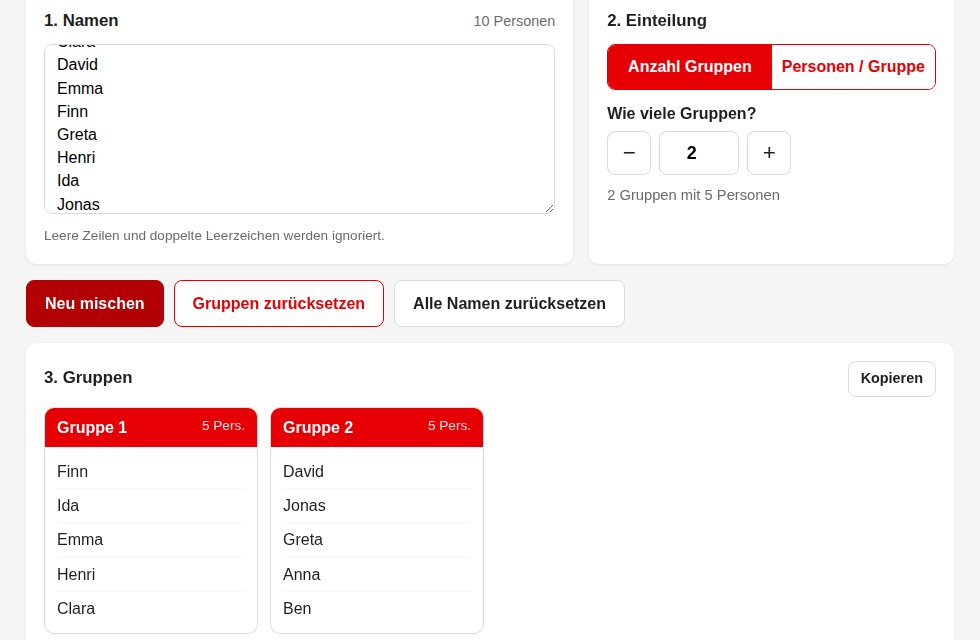
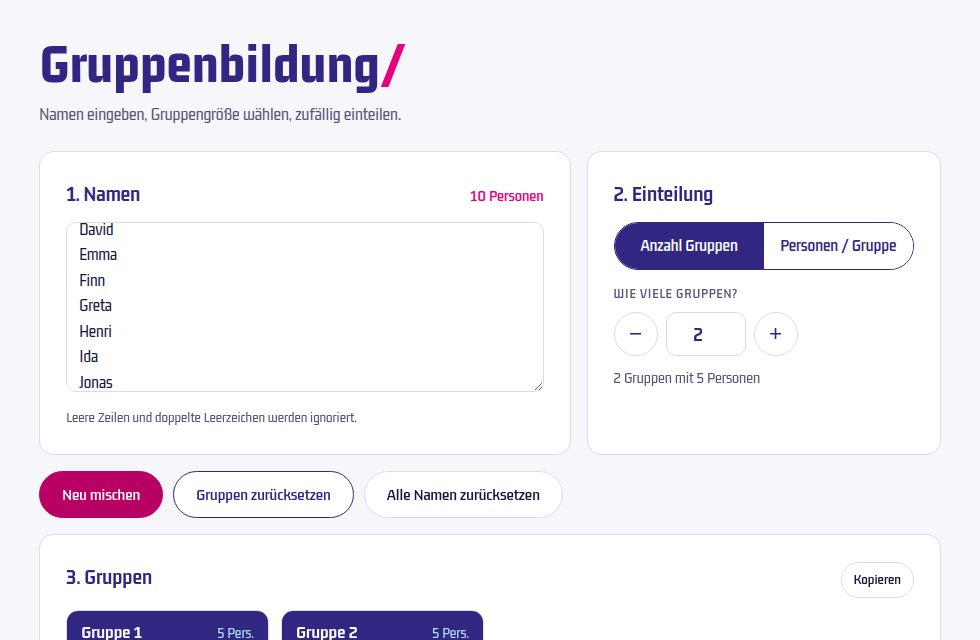
Gruppenbildung im Corporate Design, Rotes Kreuz entfernt

diff --git a/apps/gruppenbildung/index.html b/apps/gruppenbildung/index.html
@@ -5,56 +5,58 @@
 <meta name="viewport" content="width=device-width, initial-scale=1">
 <title>Gruppenbildung</title>
 <style>
+  @font-face{font-family:"Gemunu Libre";src:url("../../assets/fonts/gemunu-libre-latin.woff2") format("woff2");font-weight:200 800;font-display:swap}
   :root{
-    --rot:#E60005; --rot-dunkel:#B30004; --rot-hell:#FDE8E9;
-    --text:#1F1F1F; --grau:#6B6B6B; --linie:#DADADA; --flaeche:#F5F5F5; --weiss:#fff;
-    --radius:10px;
+    --indigo:#312783; --indigo-dunkel:#231c63; --magenta:#E6007E; --magenta-dunkel:#B80065; --sky:#ACDDF9; --sky-hell:#EAF6FE;
+    --text:#17153f; --grau:#57557a; --linie:#dddbeb; --flaeche:#f7f6fb; --weiss:#fff;
+    --radius:14px;
   }
   *{box-sizing:border-box}
-  body{margin:0;font-family:"Helvetica Neue",Helvetica,Arial,sans-serif;color:var(--text);background:var(--flaeche);line-height:1.45}
-  .wrap{max-width:960px;margin:0 auto;padding:20px 16px 40px}
-  header{display:flex;align-items:center;gap:12px;margin-bottom:18px}
-  .logo{width:40px;height:40px;flex:none}
-  h1{font-size:clamp(1.3rem,4vw,1.7rem);margin:0}
-  .sub{color:var(--grau);margin:2px 0 0;font-size:.95rem}
-  .card{background:var(--weiss);border-radius:var(--radius);padding:18px;box-shadow:0 1px 3px rgba(0,0,0,.08);margin-bottom:16px}
-  h2{font-size:1.05rem;margin:0 0 10px;display:flex;justify-content:space-between;align-items:baseline;gap:8px;flex-wrap:wrap}
-  .count{font-weight:normal;color:var(--grau);font-size:.9rem}
-  label{font-weight:600;display:block;margin-bottom:6px}
-  textarea{width:100%;min-height:170px;resize:vertical;font:inherit;font-size:16px;padding:10px 12px;border:1.5px solid var(--linie);border-radius:8px}
-  textarea:focus,input:focus{outline:none;border-color:var(--rot);box-shadow:0 0 0 3px var(--rot-hell)}
-  .hint{font-size:.85rem;color:var(--grau);margin:6px 0 0}
-  .seg{display:flex;border:1.5px solid var(--rot);border-radius:8px;overflow:hidden;margin-bottom:12px}
-  .seg button{flex:1;border:0;background:var(--weiss);color:var(--rot);font:inherit;font-weight:600;padding:10px 8px;cursor:pointer;min-height:44px}
-  .seg button[aria-pressed="true"]{background:var(--rot);color:var(--weiss)}
+  body{margin:0;font-family:"Gemunu Libre",system-ui,sans-serif;font-size:17px;color:var(--text);background:var(--flaeche);line-height:1.5}
+  .wrap{max-width:980px;margin:0 auto;padding:clamp(20px,4vw,48px)}
+  header{margin-bottom:24px}
+  h1{font-weight:800;font-size:clamp(2.2rem,1.6rem + 3vw,3.5rem);line-height:.9;margin:0;color:var(--indigo)}
+  h1 em{font-style:normal;color:var(--magenta)}
+  .sub{color:var(--grau);margin:12px 0 0;font-size:1.1rem}
+  .card{background:var(--weiss);border:1px solid var(--linie);border-radius:var(--radius);padding:clamp(16px,3vw,26px);margin-bottom:16px}
+  h2{font-size:1.35rem;font-weight:700;color:var(--indigo);margin:0 0 12px;display:flex;justify-content:space-between;align-items:baseline;gap:8px;flex-wrap:wrap}
+  .count{font-weight:600;color:var(--magenta);font-size:1rem}
+  label{display:block;font-size:.85rem;font-weight:600;letter-spacing:.06em;text-transform:uppercase;color:var(--grau);margin-bottom:8px}
+  textarea{width:100%;min-height:170px;resize:vertical;font:inherit;font-size:17px;padding:10px 12px;border:1.5px solid var(--linie);border-radius:10px;color:var(--text)}
+  textarea:focus,input:focus{outline:none;border-color:var(--indigo);box-shadow:0 0 0 3px var(--sky)}
+  .hint{font-size:.92rem;color:var(--grau);margin:6px 0 0}
+  .seg{display:flex;border:1.5px solid var(--indigo);border-radius:999px;overflow:hidden;margin-bottom:14px}
+  .seg button{flex:1;border:0;background:var(--weiss);color:var(--indigo);font:inherit;font-weight:600;padding:10px 8px;cursor:pointer;min-height:44px}
+  .seg button[aria-pressed="true"]{background:var(--indigo);color:var(--weiss)}
   .stepper{display:flex;align-items:center;gap:8px}
-  .stepper button{width:44px;height:44px;border-radius:8px;border:1.5px solid var(--linie);background:var(--weiss);font-size:1.4rem;cursor:pointer;color:var(--text)}
-  .stepper input{width:80px;height:44px;text-align:center;font:inherit;font-size:18px;font-weight:600;border:1.5px solid var(--linie);border-radius:8px}
-  .preview{margin-top:10px;font-size:.92rem;color:var(--grau)}
+  .stepper button{width:44px;height:44px;border-radius:50%;border:1.5px solid var(--linie);background:var(--weiss);font-size:1.4rem;cursor:pointer;color:var(--indigo)}
+  .stepper button:hover{border-color:var(--indigo)}
+  .stepper input{width:80px;height:44px;text-align:center;font:inherit;font-size:20px;font-weight:700;color:var(--indigo);border:1.5px solid var(--linie);border-radius:10px}
+  .preview{margin-top:10px;font-size:1rem;color:var(--grau)}
   .actions{display:flex;flex-wrap:wrap;gap:10px;margin-top:16px}
-  .btn{font:inherit;font-weight:600;border-radius:8px;padding:11px 18px;min-height:44px;cursor:pointer;border:1.5px solid var(--rot);background:var(--weiss);color:var(--rot)}
-  .btn.primary{background:var(--rot);color:var(--weiss)}
-  .btn.primary:hover{background:var(--rot-dunkel);border-color:var(--rot-dunkel)}
-  .btn:hover{background:var(--rot-hell)}
+  .btn{font:inherit;font-size:1.05rem;font-weight:600;border-radius:999px;padding:10px 22px;min-height:46px;cursor:pointer;border:1.5px solid var(--indigo);background:var(--weiss);color:var(--indigo)}
+  .btn.primary{background:var(--magenta);border-color:var(--magenta);color:var(--weiss)}
+  .btn.primary:hover{background:var(--magenta-dunkel);border-color:var(--magenta-dunkel)}
+  .btn:hover{background:var(--sky-hell)}
   .btn.ghost{border-color:var(--linie);color:var(--text)}
   .btn:disabled{opacity:.45;cursor:not-allowed}
   .grid2{display:grid;grid-template-columns:1fr;gap:16px}
   @media(min-width:760px){.grid2{grid-template-columns:3fr 2fr}}
-  .msg{margin-top:10px;padding:10px 12px;border-radius:8px;background:var(--rot-hell);color:var(--rot-dunkel);font-size:.92rem;display:none}
+  .msg{margin-top:10px;padding:10px 14px;border-radius:10px;background:var(--sky-hell);border-left:4px solid var(--magenta);color:var(--indigo);font-size:1rem;display:none}
   .msg.show{display:block}
   .groups{display:grid;grid-template-columns:repeat(auto-fill,minmax(200px,1fr));gap:12px}
-  .group{border:1.5px solid var(--linie);border-radius:var(--radius);overflow:hidden;background:var(--weiss);animation:pop .35s ease both}
-  .group h3{margin:0;background:var(--rot);color:var(--weiss);font-size:1rem;padding:8px 12px;display:flex;justify-content:space-between}
-  .group h3 span{font-weight:normal;opacity:.9;font-size:.85rem}
-  .group ul{list-style:none;margin:0;padding:8px 12px}
+  .group{border:1px solid var(--linie);border-radius:12px;overflow:hidden;background:var(--weiss);animation:pop .35s ease both}
+  .group h3{margin:0;background:var(--indigo);color:var(--weiss);font-size:1.15rem;font-weight:700;padding:8px 14px;display:flex;justify-content:space-between;align-items:baseline;border-bottom:3px solid var(--magenta)}
+  .group h3 span{font-weight:500;color:var(--sky);font-size:.95rem}
+  .group ul{list-style:none;margin:0;padding:8px 14px}
   .group li{padding:5px 0;border-bottom:1px solid var(--flaeche)}
   .group li:last-child{border-bottom:0}
   @keyframes pop{from{opacity:0;transform:translateY(6px)}to{opacity:1;transform:none}}
   @media (prefers-reduced-motion:reduce){.group{animation:none}}
   .empty{color:var(--grau);text-align:center;padding:24px 8px}
-  .dialog-bg{position:fixed;inset:0;background:rgba(0,0,0,.45);display:none;align-items:center;justify-content:center;padding:16px;z-index:10}
+  .dialog-bg{position:fixed;inset:0;background:rgba(23,21,63,.5);display:none;align-items:center;justify-content:center;padding:16px;z-index:10}
   .dialog-bg.show{display:flex}
-  .dialog{background:var(--weiss);border-radius:var(--radius);padding:20px;max-width:380px;width:100%}
+  .dialog{background:var(--weiss);border-radius:var(--radius);padding:22px;max-width:380px;width:100%}
   .dialog p{margin:0 0 16px}
   .dialog .actions{justify-content:flex-end;margin-top:0}
 </style>
@@ -62,9 +64,8 @@
 <body>
 <div class="wrap">
   <header>
-    <svg class="logo" viewBox="0 0 40 40" aria-hidden="true"><rect width="40" height="40" rx="8" fill="#fff"/><path d="M15 6h10v9h9v10h-9v9H15v-9H6V15h9z" fill="#E60005"/></svg>
     <div>
-      <h1>Gruppenbildung</h1>
+      <h1>Gruppenbildung<em>/</em></h1>
       <p class="sub">Namen eingeben, Gruppengröße wählen, zufällig einteilen.</p>
     </div>
   </header>
